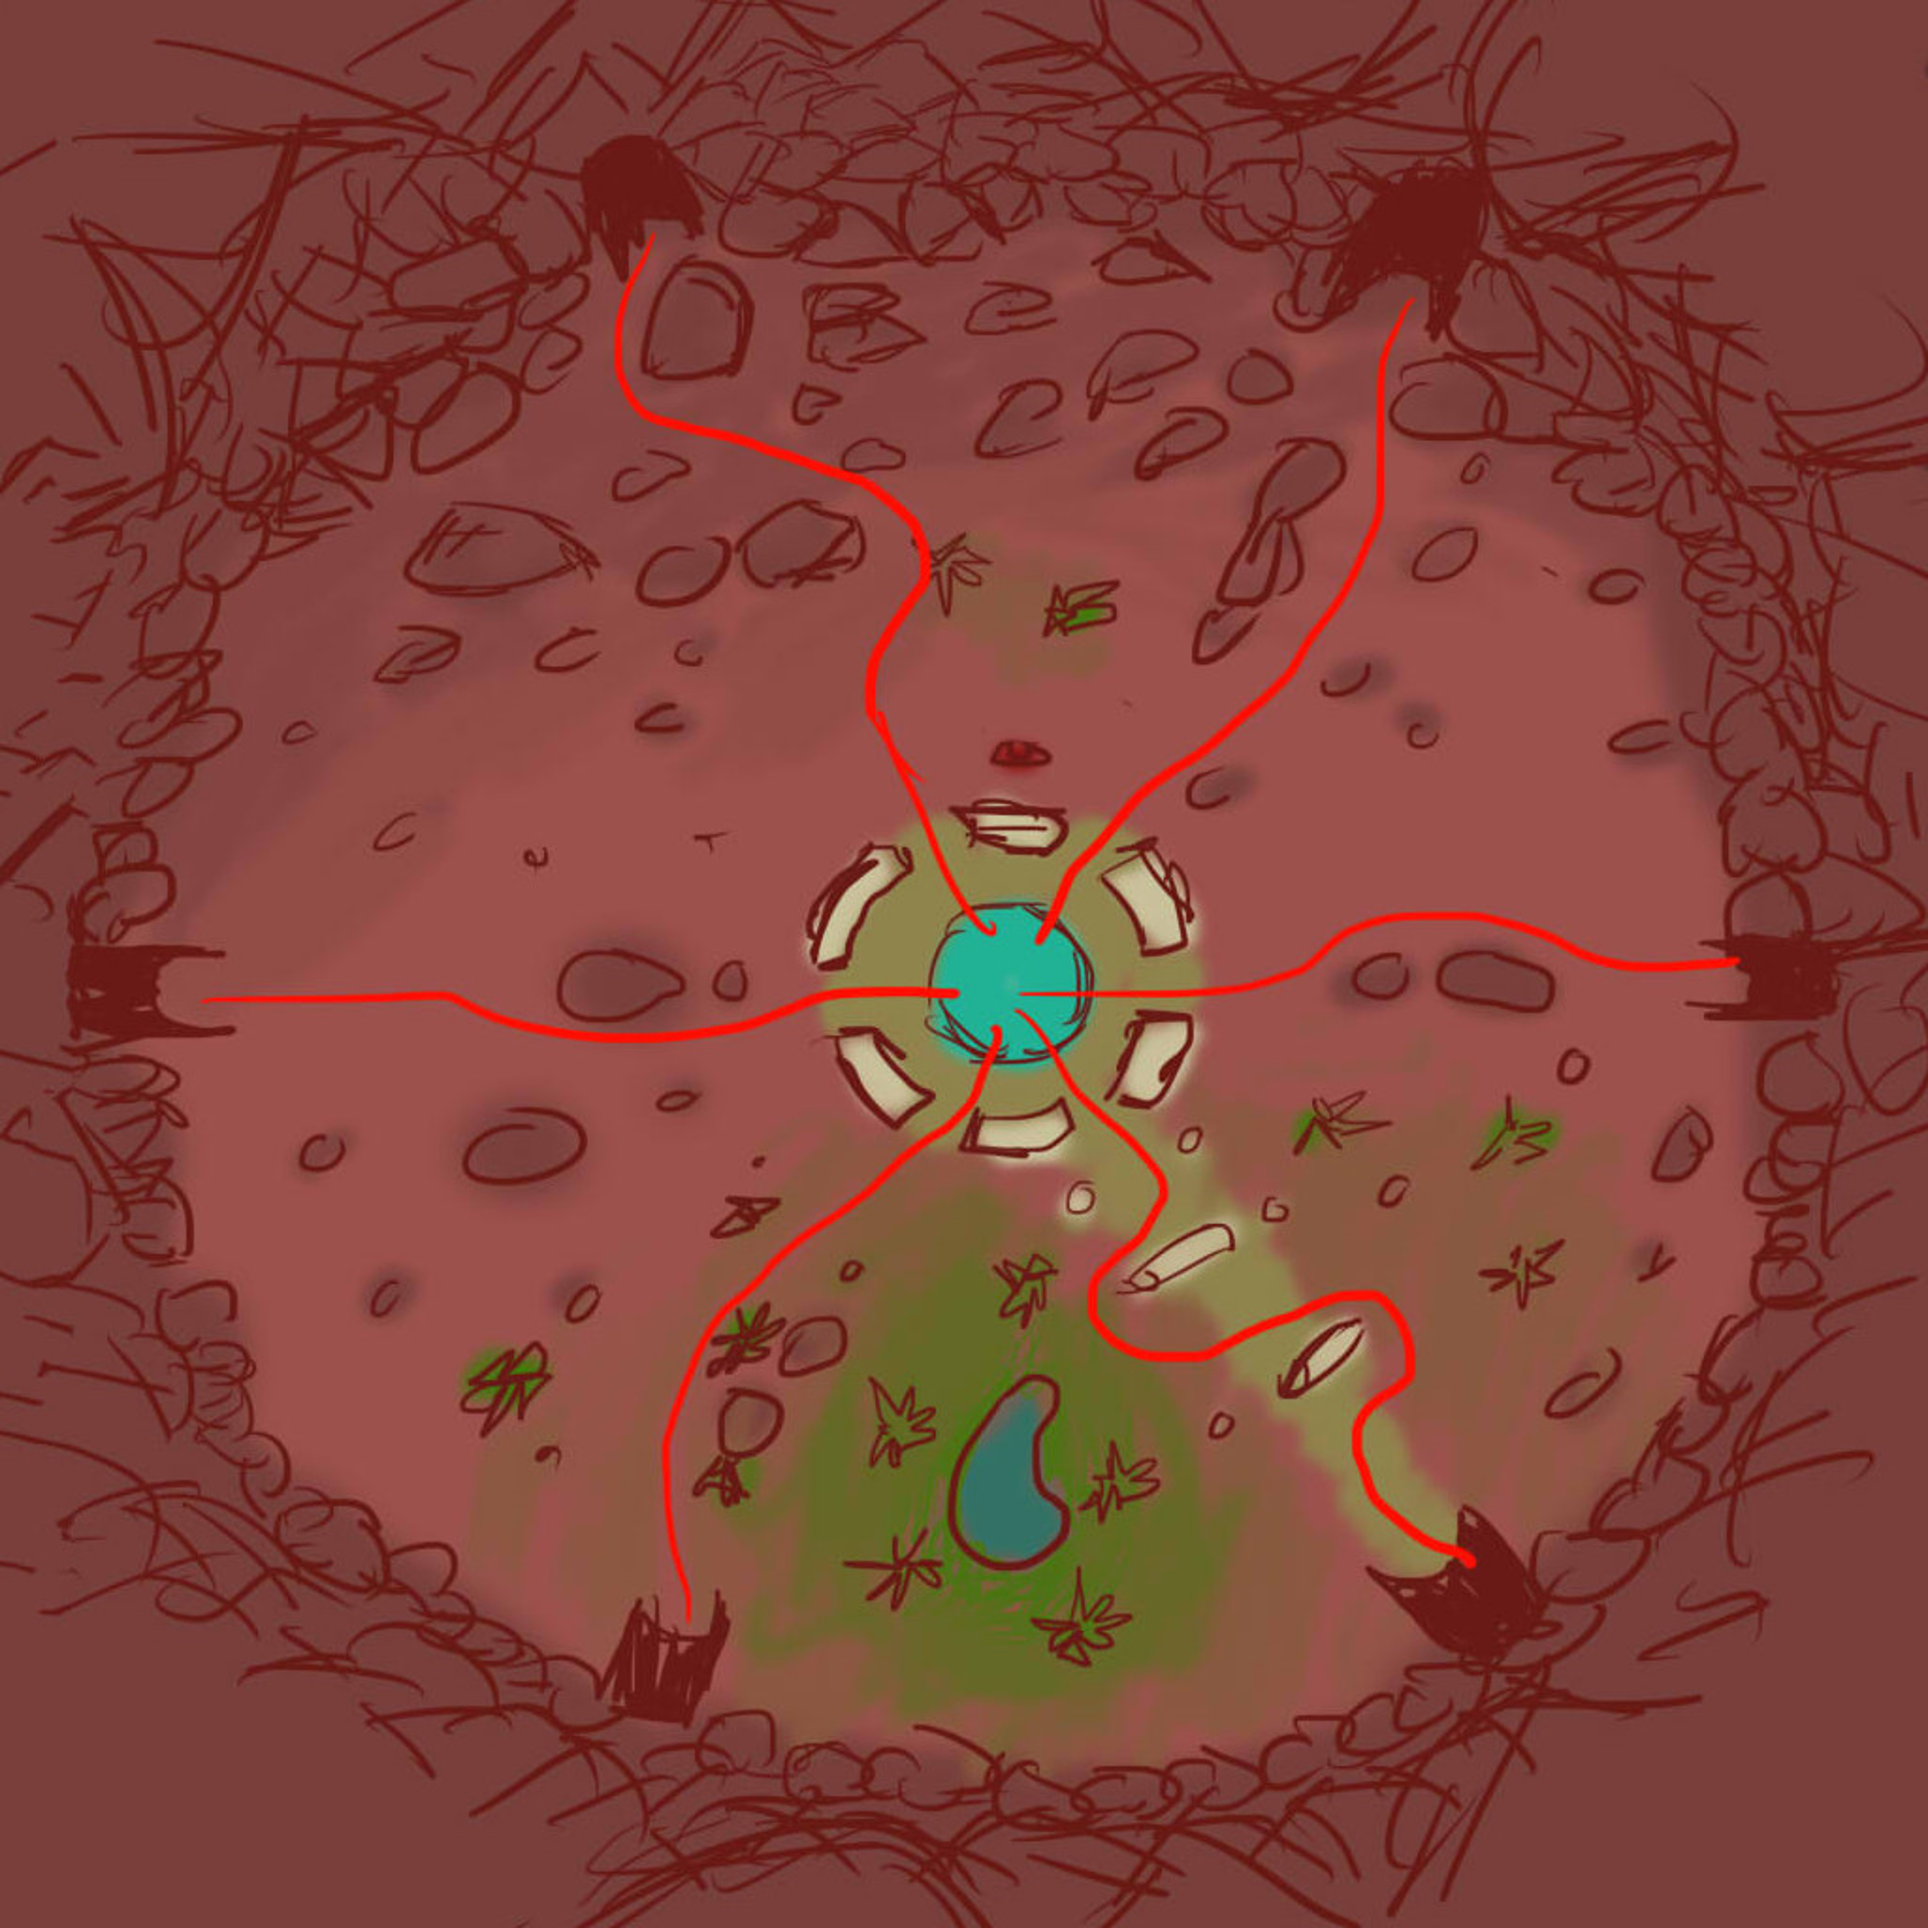
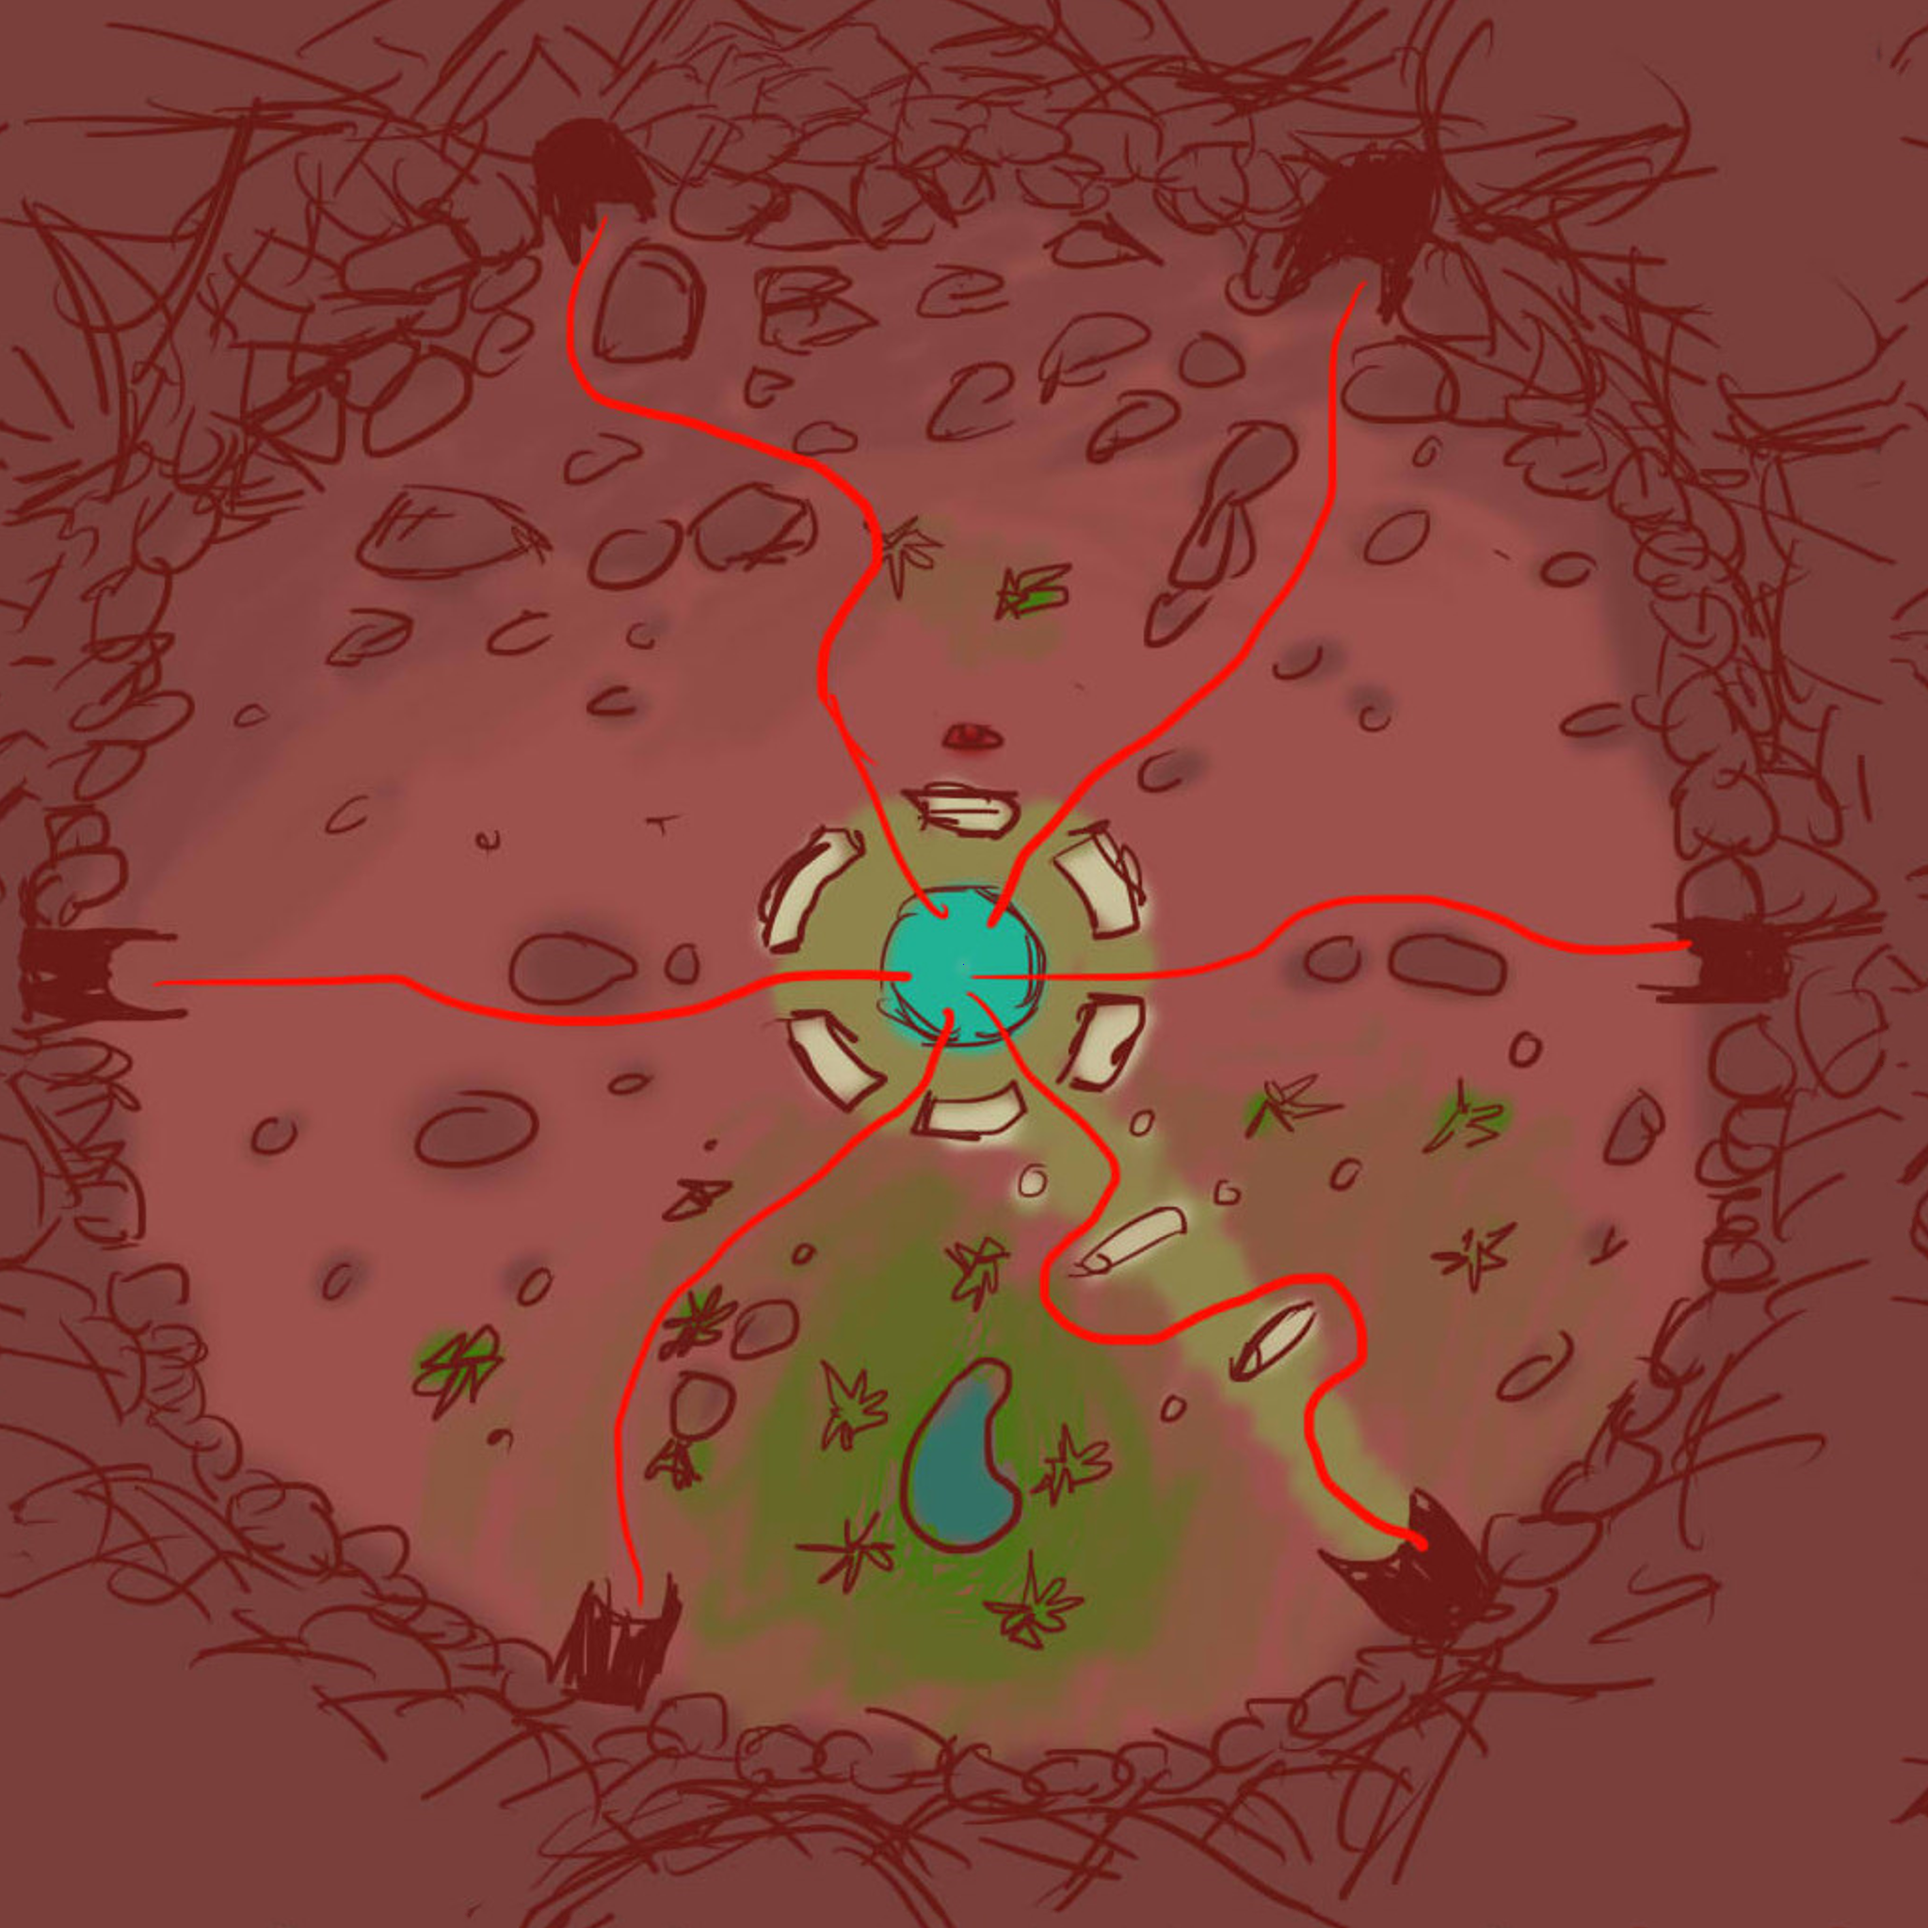
Well-translated sourceMap into objects

diff --git a/Classes/HelloWorldScene.cpp b/Classes/HelloWorldScene.cpp
@@ -204,8 +204,22 @@ bool HelloWorld::init()
 	walls->setCameraMask(2);
 	this->addChild(walls, 0);
 
+	auto lake = Sprite3D::create("Lake.obj");
+	lake->setScale(100 * (floorSize / 2048));
+	lake->setRotation3D(Vec3(90, 0, 0));
+	lake->setPosition3D(Vec3(-5*(floorSize/2048), -520*(floorSize/2048), 0));
+	lake->setCameraMask(2);
+	this->addChild(lake, 0);
+
+	auto ruin1 = Sprite3D::create("RuinStructure.obj", "stone.png");
+	ruin1->setScale(25 * (floorSize / 2048));
+	ruin1->setRotation3D(Vec3(90, 0, 0));
+	ruin1->setPosition3D(Vec3(0*(floorSize/2048), -150*(floorSize/2048), 0));
+	ruin1->setCameraMask(2);
+	this->addChild(ruin1, 0);
+
 	
-	Point p = Point(0, -100*(floorSize/2048));
+	Point p = Point(0, 0);
 
 	boss = new Player(floorSize, p);
 	mobile_objects [num_mobile_objects] = boss;
@@ -469,7 +483,6 @@ void HelloWorld::update(float dt)
 				if (leftTriggerPushed) leftTriggerPushed = false;
 			}
 
-
 			// CONTROL DE PLAYER
 			if (boss->dashing == 0) {
 				boss->_sprite->setPosition3D(boss->_sprite->getPosition3D() + Vec3(state.Gamepad.sThumbLX*dt*boss->speed / 70, state.Gamepad.sThumbLY*dt*boss->speed / 70, 0));
@@ -478,7 +491,15 @@ void HelloWorld::update(float dt)
 
 			if (wButtons & XINPUT_GAMEPAD_A)
 				//boss->_sprite->setPosition3D(Vec3(800 / 2 + (rand() % 2) - 1 * rand() % 1 * 800 / 2, 600 / 2 + (rand() % 2) - 1 * rand() % 1 * 600 / 2, 100));
-				boss->_sprite->setPosition3D(Vec3(0, -100*(floorSize/2048), boss->_sprite->getPositionZ()));
+				boss->_sprite->setPosition3D(Vec3(0, 0, boss->_sprite->getPositionZ()));
+
+			float aux_distance_player = sqrt(pow(boss->_sprite->getPositionX(), 2) + pow(boss->_sprite->getPositionY(), 2));
+			float radius_mountains = 930;
+			if (aux_distance_player > radius_mountains*(floorSize/2048)) {
+				Vec2 distance_from_center = Vec2(boss->_sprite->getPositionX(), boss->_sprite->getPositionY());
+				distance_from_center.normalize();
+				boss->_sprite->setPosition3D(Vec3(distance_from_center.x*radius_mountains*(floorSize/2048), distance_from_center.y*radius_mountains*(floorSize/2048), boss->_sprite->getPositionZ()));
+			}
 
 			// CHANGE WEAPON
 			if (wButtons & XINPUT_GAMEPAD_Y){
@@ -909,7 +930,7 @@ void HelloWorld::update(float dt)
 								else {
 									CocosDenshion::SimpleAudioEngine::sharedEngine()->playEffect("explosion.wav");
 									player->_health = 200;
-									player->_sprite->setPosition3D(Vec3(0, -500, player->_sprite->getPositionZ()));
+									player->_sprite->setPosition3D(Vec3(0, 0, player->_sprite->getPositionZ()));
 								}
 							
 							}
@@ -1000,6 +1021,12 @@ void HelloWorld::update(float dt)
 							Enemy* e = (Enemy*)mobile_objects[j];
 							e->harmNexus();
 
+						}
+						else if (mobile_objects[j]->_type.compare("player") == 0 && static_objects[i]->_type.compare("nexus") == 0) {
+							// EL PLAYER PUEDE ATRAVESAR EL NEXO
+						}
+						else if ((mobile_objects[j]->_type.compare("shot") == 0 || mobile_objects[j]->_type.compare("airshot") == 0 || mobile_objects[j]->_type.compare("fireshot") == 0) && static_objects[i]->_type.compare("nexus") == 0) {
+							// LOS SHOTS ATRAVIESAN EL NEXO
 						}
 						else if (mobile_objects[j]->_type.compare("tower_shot") == 0) {
 							// LOS TOWER_SHOT NO COLISIONAN CON NADA ESTATICO
@@ -1210,7 +1237,13 @@ void HelloWorld::readMapFromFile(const std::string nameOfFile) {
     // But cocos2d Location Y-axis is Bottom(0) to Top(max)
 	//CCLOG("This is a madafacking number: %d", 23);
 
-	Color3B* rock1 = new Color3B(0, 0, 0);
+	Color3B* rock = new Color3B(0, 0, 0);
+	Color3B* rock2 = new Color3B(50, 50, 50);
+	Color3B* rock3 = new Color3B(100, 100, 100);
+	Color3B* rock4 = new Color3B(150, 150, 150);
+	Color3B* palmTree = new Color3B(0, 255, 0);
+	Color3B* pilar = new Color3B(255, 255, 0);
+	Color3B* pilar2 = new Color3B(255, 200, 0);
 
     for(int i=0; i<img->getWidth(); i++)
     {
@@ -1224,16 +1257,88 @@ void HelloWorld::readMapFromFile(const std::string nameOfFile) {
             unsigned char b = *(pixel + 2) ;
             unsigned char a = *(pixel + 3);
 			
-			if (r == rock1->r && g == rock1->g && b == rock1->b) {
+			if (r == rock->r && g == rock->g && b == rock->b) {
 				// ES UN PIXEL NIGGA
 				float aux_w = float(i)/float(img->getWidth());
 				float aux_h = 1 -(float(j)/float(img->getHeight()));
 
-				CCLOG("This is a madafacking number: %f", aux_w);
-				CCLOG("This is a madafacking number: %f", aux_h);
+				//CCLOG("This is a madafacking number: %f", aux_w);
+				//CCLOG("This is a madafacking number: %f", aux_h);
 
 				Atrezzo* a;
 				a = new Atrezzo(floorSize, Point( (aux_w*float(floorSize))-floorSize/2, (aux_h*float(floorSize))-floorSize/2), "rock");
+				static_objects [num_static_objects] = a;
+				num_static_objects++;
+				a->_sprite->setCameraMask(2);
+				this->addChild(a->_sprite, 1);
+			}
+			else if (r == rock2->r && g == rock2->g && b == rock2->b) {
+
+				float aux_w = float(i)/float(img->getWidth());
+				float aux_h = 1 -(float(j)/float(img->getHeight()));
+
+				Atrezzo* a;
+				a = new Atrezzo(floorSize, Point( (aux_w*float(floorSize))-floorSize/2, (aux_h*float(floorSize))-floorSize/2), "rock2");
+				static_objects [num_static_objects] = a;
+				num_static_objects++;
+				a->_sprite->setCameraMask(2);
+				this->addChild(a->_sprite, 1);
+			}
+			else if (r == rock3->r && g == rock3->g && b == rock3->b) {
+
+				float aux_w = float(i)/float(img->getWidth());
+				float aux_h = 1 -(float(j)/float(img->getHeight()));
+
+				Atrezzo* a;
+				a = new Atrezzo(floorSize, Point( (aux_w*float(floorSize))-floorSize/2, (aux_h*float(floorSize))-floorSize/2), "rock3");
+				static_objects [num_static_objects] = a;
+				num_static_objects++;
+				a->_sprite->setCameraMask(2);
+				this->addChild(a->_sprite, 1);
+			}
+			else if (r == rock4->r && g == rock4->g && b == rock4->b) {
+
+				float aux_w = float(i)/float(img->getWidth());
+				float aux_h = 1 -(float(j)/float(img->getHeight()));
+
+				Atrezzo* a;
+				a = new Atrezzo(floorSize, Point( (aux_w*float(floorSize))-floorSize/2, (aux_h*float(floorSize))-floorSize/2), "rock4");
+				static_objects [num_static_objects] = a;
+				num_static_objects++;
+				a->_sprite->setCameraMask(2);
+				this->addChild(a->_sprite, 1);
+			}
+			else if (r == palmTree->r && g == palmTree->g && b == palmTree->b) {
+
+				float aux_w = float(i)/float(img->getWidth());
+				float aux_h = 1 -(float(j)/float(img->getHeight()));
+
+				Atrezzo* a;
+				a = new Atrezzo(floorSize, Point( (aux_w*float(floorSize))-floorSize/2, (aux_h*float(floorSize))-floorSize/2), "palmTree");
+				static_objects [num_static_objects] = a;
+				num_static_objects++;
+				a->_sprite->setCameraMask(2);
+				this->addChild(a->_sprite, 1);
+			}
+			else if (r == pilar->r && g == pilar->g && b == pilar->b) {
+
+				float aux_w = float(i)/float(img->getWidth());
+				float aux_h = 1 -(float(j)/float(img->getHeight()));
+
+				Atrezzo* a;
+				a = new Atrezzo(floorSize, Point( (aux_w*float(floorSize))-floorSize/2, (aux_h*float(floorSize))-floorSize/2), "pilar");
+				static_objects [num_static_objects] = a;
+				num_static_objects++;
+				a->_sprite->setCameraMask(2);
+				this->addChild(a->_sprite, 1);
+			}
+			else if (r == pilar2->r && g == pilar2->g && b == pilar2->b) {
+
+				float aux_w = float(i)/float(img->getWidth());
+				float aux_h = 1 -(float(j)/float(img->getHeight()));
+
+				Atrezzo* a;
+				a = new Atrezzo(floorSize, Point( (aux_w*float(floorSize))-floorSize/2, (aux_h*float(floorSize))-floorSize/2), "pilar2");
 				static_objects [num_static_objects] = a;
 				num_static_objects++;
 				a->_sprite->setCameraMask(2);

diff --git a/Classes/Atrezzo.cpp b/Classes/Atrezzo.cpp
@@ -14,16 +14,44 @@ Atrezzo::Atrezzo(int floorSize2, Point initial_point_2, String type2) {
 
 	if (type2.compare("rock") == 0) {
 		scale = 40*(floorSize/2048);
-		_radius = scale*0.5;
+		_radius = scale*1;
 		_sprite = Sprite3D::create("Rock.obj", "stone.png");
 	}
-	else {
-		_sprite = Sprite3D::create("Tower.obj", "stone.png");
+	else if (type2.compare("rock2") == 0) {
+		scale = 40*(floorSize/2048);
+		_radius = scale*0.5;
+		_sprite = Sprite3D::create("Rock2.obj", "stone.png");
+	}
+	else if (type2.compare("rock3") == 0) {
+		scale = 40*(floorSize/2048);
+		_radius = scale*0.5;
+		_sprite = Sprite3D::create("Rock3.obj", "stone.png");
+	}
+	else if (type2.compare("rock4") == 0) {
+		scale = 40*(floorSize/2048);
+		_radius = scale*0.5;
+		_sprite = Sprite3D::create("Rock4.obj", "stone.png");
+	}
+	else if (type2.compare("palmTree") == 0) {
+		scale = 50*(floorSize/2048);
+		_radius = scale*0.05;
+		_sprite = Sprite3D::create("PalmTree.obj", "stone.png");
+	}
+	else if (type2.compare("pilar") == 0) {
+		scale = 100*(floorSize/2048);
+		_radius = scale*0.2;
+		_sprite = Sprite3D::create("Pilar.obj", "stone.png");
+	}
+	else if (type2.compare("pilar2") == 0) {
+		scale = 100*(floorSize/2048);
+		_radius = scale*0.2;
+		_sprite = Sprite3D::create("Pilar.obj", "stone.png");
 	}
 
 	
 	_sprite->setPosition3D(Vec3(initial_point_2.x, initial_point_2.y, 0));
 	_sprite->setRotation3D(Vec3(90, 0, rand() % 360));
+	if (type2.compare("pilar2") == 0) _sprite->setRotation3D(Vec3(0, 0, 220));
 	_sprite->setScale(scale);
 
 	_eventDispatcher->addCustomEventListener("checkVisible", [=](EventCustom* event) {
@@ -33,7 +61,7 @@ Atrezzo::Atrezzo(int floorSize2, Point initial_point_2, String type2) {
 			Point* point_sprite = new Point(_sprite->getPositionX(), _sprite->getPositionY());
 			bool distance_bool = false;
 			if ((data->x - point_sprite->x) < (350*(floorSize/2048)) && (data->x - point_sprite->x) > -(350*(floorSize/2048)) &&
-				(data->y - point_sprite->y) < (120*(floorSize/2048)) && (data->y - point_sprite->y) > -(350*(floorSize/2048))) { distance_bool = true; }
+				(data->y - point_sprite->y) < (150*(floorSize/2048)) && (data->y - point_sprite->y) > -(350*(floorSize/2048))) { distance_bool = true; }
 			if (distance_bool && !_sprite->isVisible()) {
 				_sprite->setVisible(true);
 			}

diff --git a/Classes/Nexus.cpp b/Classes/Nexus.cpp
@@ -16,7 +16,7 @@ Nexus::Nexus(int floorSize2, Point initial_point_2) {
 
 	initial_point_nexus = initial_point_2;
 
-	scale_nexus = 20*(floorSize/2048);
+	scale_nexus = 80*(floorSize/2048);
 
 	// ESTE RADIO ES PERFECTO, NO TOCAR
 	_radius = scale_nexus*1;
@@ -28,6 +28,8 @@ Nexus::Nexus(int floorSize2, Point initial_point_2) {
 	_sprite->setRotation3D(Vec3(90, 0, 270));
 	_sprite->setScale(scale_nexus);
 	_sprite->setColor(Color3B(0, 0, 200));
+	GLubyte ubyteComponent = static_cast<GLubyte>(0.4f * 255.f); 
+	_sprite->setOpacity(ubyteComponent);
 
 	
 	_eventDispatcher->addCustomEventListener("EnterFrame", [=](EventCustom* event) {
@@ -42,7 +44,7 @@ Nexus::Nexus(int floorSize2, Point initial_point_2) {
 			Point* point_sprite = new Point(_sprite->getPositionX(), _sprite->getPositionY());
 			bool distance_bool = false;
 			if ((data->x - point_sprite->x) < (350*(floorSize/2048)) && (data->x - point_sprite->x) > -(350*(floorSize/2048)) &&
-				(data->y - point_sprite->y) < (120*(floorSize/2048)) && (data->y - point_sprite->y) > -(350*(floorSize/2048))) { distance_bool = true; }
+				(data->y - point_sprite->y) < (200*(floorSize/2048)) && (data->y - point_sprite->y) > -(350*(floorSize/2048))) { distance_bool = true; }
 			if (distance_bool && !_sprite->isVisible()) {
 				_sprite->setVisible(true);
 			}

diff --git a/Classes/WeaponShot.cpp b/Classes/WeaponShot.cpp
@@ -34,6 +34,23 @@ WeaponShot::WeaponShot(int floorSize2, Vec3 start, Vec3 aim)
 		float* data = static_cast<float*>(event->getUserData());
 		update(data[0]);
 	});
+
+	_eventDispatcher->addCustomEventListener("checkVisible", [=](EventCustom* event) {
+		if (_active) {
+
+			Point* data = static_cast<Point*>(event->getUserData());
+			Point* point_sprite = new Point(_sprite->getPositionX(), _sprite->getPositionY());
+			bool distance_bool = false;
+			if ((data->x - point_sprite->x) < (350*(floorSize/2048)) && (data->x - point_sprite->x) > -(350*(floorSize/2048)) &&
+				(data->y - point_sprite->y) < (120*(floorSize/2048)) && (data->y - point_sprite->y) > -(350*(floorSize/2048))) { distance_bool = true; }
+			if (distance_bool && !_sprite->isVisible()) {
+				_sprite->setVisible(true);
+			}
+			else if (!distance_bool && _sprite->isVisible()) {
+				_sprite->setVisible(false);
+			}
+		}
+	});
 }
 
 WeaponShot::~WeaponShot(void/*WeaponShot _object*/)
@@ -57,6 +74,7 @@ void WeaponShot::update(float dt)
 
 		if (_time >= _timeLimit) {
 			
+			_active = false;
 			float* data = new float[1];
 			data[0] = _num_in_array;
 			EventCustom event("remove_mobile");
